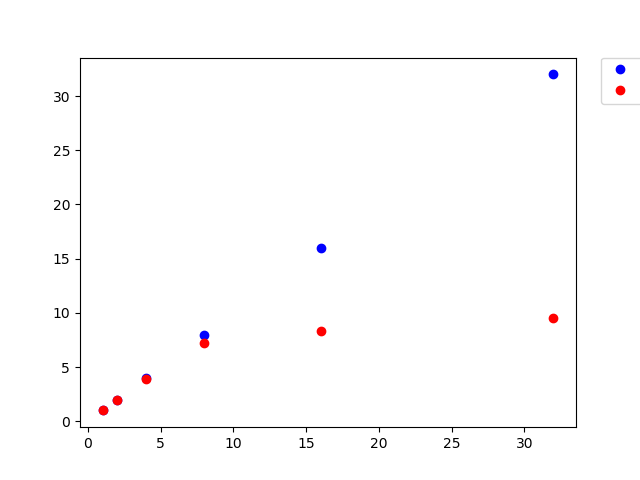
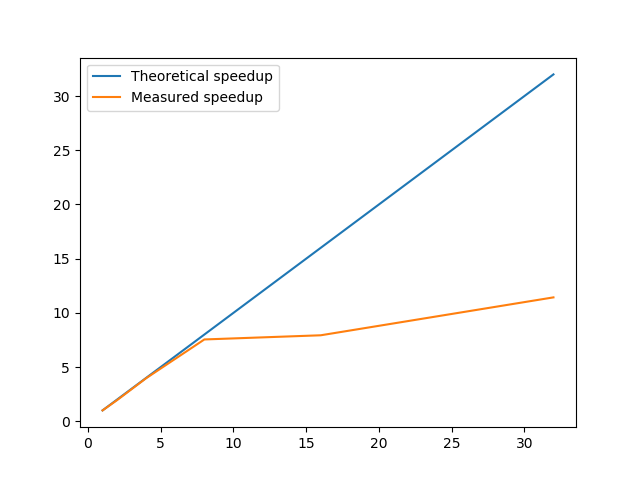
lala

diff --git a/problem1/problem1b.py b/problem1/problem1b.py
@@ -14,7 +14,7 @@ def sample_pi(t):
     q = t[0]
     n = t[1]
     i = t[2]
-    random.seed(i)
+    random.seed(31415)
     while True:
         s = 0
         for i in range(n):
@@ -25,7 +25,7 @@ def sample_pi(t):
         q.put(s)
 
 def compute_pi(args):
-    n = 10000
+    n = 100000
     p = multiprocessing.Pool(args.workers)
     q = multiprocessing.Manager().Queue()
     start = time.time()
@@ -45,7 +45,7 @@ def compute_pi(args):
             print("error: ", abs(pi_est-pi))
     end = time.time()
     print(" Steps\tSuccess\tPi est.\tError")
-    print("%6d\t%7d\t%1.5f\t%1.5f" % (n_total, s_total, pi_est, pi-pi_est))
+    print("%6d\t%7d\t%1.7f\t%1.7f" % (n_total, s_total, pi_est, pi-pi_est))
     print("Total time: ",end-start)
 
 
@@ -76,7 +76,8 @@ if __name__ == "__main__":
     speedup = [1.0]
     for i in range(1,len(results)):
         speedup.append(results[0]/results[i])
-    plt.plot([1,2,4,8,16,32],[1,2,4,8,16,32], 'bo')
-    plt.plot([1,2,4,8,16,32],speedup,'ro')
+    plt.plot([1,2,4,8,16,32],[1,2,4,8,16,32], label="Theoretical speedup")
+    plt.plot([1,2,4,8,16,32],speedup,label="Measured speedup")
     #plt.show()
-    plt.savefig("piplot.png")
+    plt.legend(loc="best")
+    plt.savefig("piplotb.png")
